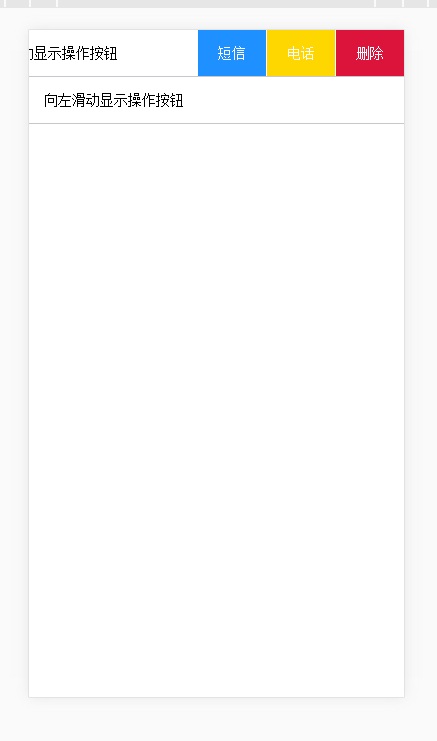
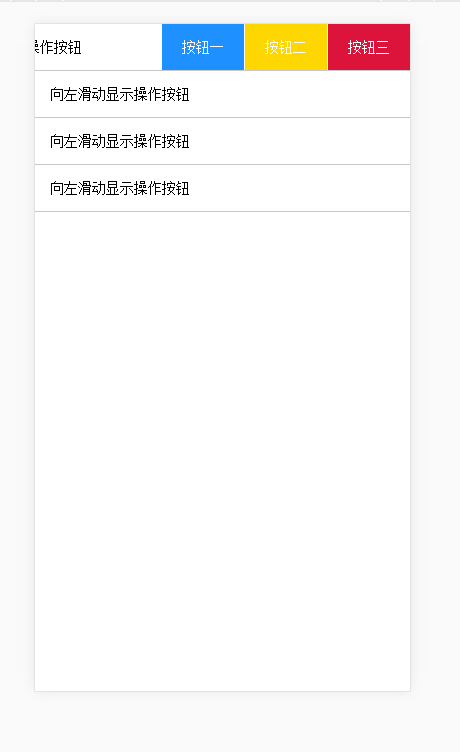
2016-11-01
change

Changed region(s): [[0.0595, 0.031, 0.9222, 0.2794]]

diff --git a/touch/index.html b/touch/index.html
@@ -21,9 +21,9 @@
 					向左滑动显示操作按钮向左滑动显示操作按钮
 				</div>
 				<div class="view-cell-right">
-					<a class="a-blue">短信</a>
-					<a class="a-yello">电话</a>
-					<a class="a-red">删除</a>
+					<a class="a-blue">按钮一</a>
+					<a class="a-yello">按钮二</a>
+					<a class="a-red">按钮三</a>
 				</div>
 			</li>
 			<li class="list-view-cell">
@@ -31,7 +31,23 @@
 					向左滑动显示操作按钮
 				</div>
 				<div class="view-cell-right">
-					<a class="a-red">删除</a>
+					<a class="a-red">按钮</a>
+				</div>
+			</li>
+			<li class="list-view-cell">
+				<div class="view-cell-left">
+					向左滑动显示操作按钮
+				</div>
+				<div class="view-cell-right">
+					<a class="a-red">按钮</a>
+				</div>
+			</li>
+			<li class="list-view-cell">
+				<div class="view-cell-left">
+					向左滑动显示操作按钮
+				</div>
+				<div class="view-cell-right">
+					<a class="a-red">按钮</a>
 				</div>
 			</li>
 		</ul>
